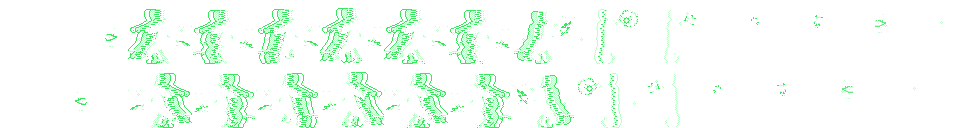
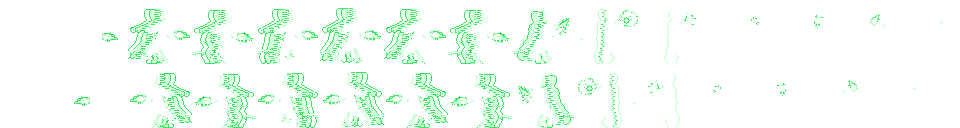
Lightning Cutter v4: electric blade sheaf rooted behind the fingertips so it covers the knife hand (_ebladeAt, eb())
Claude-Session: https://claude.ai/code/session_01Szh5ttRDb89qDV89ViZpPu

diff --git a/tools/astro.py b/tools/astro.py
@@ -659,6 +659,29 @@ NPAT.update({'eblade0': _eblade(18, 1), 'eblade1': _eblade(18, 2, 1.2), 'eblade2
              'ebladeLow': _eblade(16, 8, 0.8, 0.25), 'ebladeLow2': _eblade(16, 9, 0.9, 0.25), 'ebladeUp': _eblade(16, 10, 0.7, -0.85), 'ebladeUp2': _eblade(18, 11, 0.8, -0.95),
              'impaleUp': [r[::-1] for r in _eblade(18, 12, 0.6, -0.8)], 'impaleUp2': [r[::-1] for r in _eblade(20, 13, 0.8, -0.85)],
              'impaleOut': [r[::-1] for r in _eblade(18, 6, 0.6)], 'impaleOut2': [r[::-1] for r in _eblade(20, 7, 0.8)]})
+def _ebladeAt(L, seed, spread, base, back=5):   # Lightning Cutter v4 (Christopher 2026-11-03: the blades cover the hand, not below it): the sheaf rooted `back` px behind the fingertips so it wraps the
+    import random                                  # knife hand and juts past it; returns the rows plus the anchored dx/dy that put the root on the hand anchor (patterns are centred on the anchor)
+    rnd = random.Random(seed); pts = {}
+    for (ln, ang, w) in ((L, 0, 3.4), (round(L * 0.75), -0.3 * spread, 2.4), (round(L * 0.7), 0.32 * spread, 2.4), (round(L * 0.5), -0.6 * spread, 1.8), (round(L * 0.45), 0.65 * spread, 1.8)):
+        for i in range(ln * 2):
+            t = i / 2; f = t / ln; half = w * (1 - f) + 0.5
+            jit = rnd.choice((-0.6, 0, 0.6)) if i % 3 == 0 else 0
+            for j in range(-5, 6):
+                o = j / 2
+                if abs(o) > half: continue
+                a = ang + base; x = round(t * math.cos(a) - (o + jit) * math.sin(a)) - back; y = round(t * math.sin(a) + (o + jit) * math.cos(a))
+                ch = 'W' if abs(o) < 0.3 and f < 0.7 else 'l' if abs(o) < half - 0.6 else 'L'
+                if (x, y) not in pts or ch == 'W': pts[(x, y)] = ch
+    xs = [x for x, _ in pts]; ys = [y for _, y in pts]; x0, y0 = min(xs), min(ys); w_, h_ = max(xs) - x0 + 1, max(ys) - y0 + 1
+    rows = [['.'] * w_ for _ in range(h_)]
+    for (x, y), ch in pts.items(): rows[y - y0][x - x0] = ch
+    for _ in range(5): rows[rnd.randrange(h_)][rnd.randrange(w_)] = 'l'
+    return [''.join(q) for q in rows], (w_ - 1) / 2 + x0, (h_ - 1) / 2 + y0   # dx, dy: offset of the pattern centre from the root
+EB = {}
+for nm, args in {'ebHand0': (15, 21, 0.9, 0.15), 'ebHand1': (15, 22, 1.1, 0.2), 'ebUp': (16, 23, 0.8, -0.9), 'ebUpS': (11, 24, 0.7, -0.9)}.items():
+    NPAT[nm], dx_, dy_ = _ebladeAt(*args); EB[nm] = (round(dx_), round(dy_))
+def eb(nm, alpha=None):   # anchored item: blade sheaf nm rooted on the hand
+    return (nm, 'hand', EB[nm][0], EB[nm][1]) + (({'alpha': alpha},) if alpha else ())
 ELEC_TRAIL = {(255, 255, 255): (0xff, 0xff, 0xff), (0xe3, 0xe3, 0xe3): (0x39, 0xe7, 0x5f)}   # Lightning Cutter: motion streak white inner half, electric green tail
 ELEC_FEET = [[('spark', _foot(SPRINT_LEGS[k])), ('sparkL', [_foot(SPRINT_LEGS[(k + 4) % 8])[0], _foot(SPRINT_LEGS[(k + 4) % 8])[1]])] + ([('bolt8', [_foot(SPRINT_LEGS[k])[0] - 9, 63])] if _foot(SPRINT_LEGS[k])[1] == 63 else []) for k in range(6)]
 ELEC_WAKE = [[('bolt12', [2, 58]), ('spark', [10, 40]), ('sparkL', [3, 30])], [('bolt12b', [1, 60]), ('sparkL', [12, 44]), ('spark', [4, 34])]]
@@ -2062,7 +2085,7 @@ CLIPS = {
                  4: [('crackle4', 'head', -8, 8), ('crackle4b', 'head', 8, 26), ('spark', 'head', -12, 30), ('sparkL', 'head', 12, 0)],
                  5: [('spark', 'head', 9, 12), ('sparkL', 'head', -9, 30), ('staticV', 'head', 6, -8)], 6: [('spark', 'head', -7, 20)]})),
  'lightningCutter': ('Lightning Cutter', 9,
-  'Lightning Cutter (Aquarius ninjutsu, Mental 24, Melee (Reach +6m), Priority, Gap Closer: an instant piercing lightning charge), v3 (Christopher 2026-11-03: play it as a sprinting uppercut to the body with the same fx, the striking arm kept low until the strike is in range; v2 2026-10-30: electric blades envelop the hand while it runs, the strike impales the torso): from the guard the fighter dips and draws the near hand back low as a knife hand, and a sheaf of crackling electric blades bursts out round it; then it breaks into the approved sprint at blinding speed with the bladed hand carried low beside the hip, the blades pointing forward along the floor and spitting sparks, sparks off its feet at every stride, a streak of lightning and four green afterimages trailing behind; in range it plants, dips, and rips the bladed hand up from the hip in an uppercut into the target\'s body, the blades driving up through its torso and punching out of its upper back in a burst of lightning (the target plays lightningImpaled); it holds the blow while the lightning crackles through the target, then rips the hand free and settles back into the guard. The fighter travels 40 px over the clip (the game moves it by that distance).', [
+  'Lightning Cutter (Aquarius ninjutsu, Mental 24, Melee (Reach +6m), Priority, Gap Closer: an instant piercing lightning charge), v4 (Christopher 2026-11-03: the lightning blades cover the hand, not sit below it; v3: play it as a sprinting uppercut to the body with the same fx, the striking arm kept low until the strike is in range; v2 2026-10-30: electric blades envelop the hand while it runs, the strike impales the torso): from the guard the fighter dips and draws the near hand back low as a knife hand, and a sheaf of crackling electric blades bursts out round it; then it breaks into the approved sprint at blinding speed with the bladed hand carried low beside the hip, the blades pointing forward along the floor and spitting sparks, sparks off its feet at every stride, a streak of lightning and four green afterimages trailing behind; in range it plants, dips, and rips the bladed hand up from the hip in an uppercut into the target\'s body, the blades driving up through its torso and punching out of its upper back in a burst of lightning (the target plays lightningImpaled); it holds the blow while the lightning crackles through the target, then rips the hand free and settles back into the guard. The fighter travels 40 px over the clip (the game moves it by that distance).', [
      g(),
      g(an=band(20, -40, fistKind='palm'), af=band(-40, 215), bob=(3, 3, 3), lean=(1, 4), ln='ml-dip-rear', lf='ml-dip-lead')] + [
      g(an=LC_RUN, af=SPRINT_F[k], bob=(SPRINT_DY[k],) * 3, lean=(1, 8), root=(6, 0), ln='sr-' + SPRINT_LEGS[k], lf='sr-' + SPRINT_LEGS[(k + 4) % 8]) for k in range(6)] + [
@@ -2082,10 +2105,10 @@ CLIPS = {
               [(k, ELEC_FEET[k - 2] + ELEC_WAKE[k % 2]) for k in range(2, 8)] + [(8, ELEC_WAKE[0][:2]), (9, [('spark', [4, 40])])]),
        extra={'airborneFrames': [5], 'travel': {'rule': 'Lightning Cutter is a gap closer (Reach +6 m): the fighter ends the clip 40 px further forward (sum of rootMotion); the game moves the fighter by that distance', 'E': 40},
               'targetState': {'rule': 'Lightning Cutter v3: on the active frame (frame 9, the bladed uppercut drives up into the body) the target plays lightningImpaled once (impaled, blades out of its back, convulsing, then the hand rips free and it staggers), then its idle', 'state': 'lightningImpaled', 'loopFrom': None, 'element': 'air'}},
-       anchored={1: [('ebladeS', 'hand', 4, 0), ('crackle3', 'hand', 0, 0)], **{k: [(('ebladeLow', 'ebladeLow2')[k % 2], 'hand', 6, 1), ('spark', 'hand', 2, (-5, 5)[k % 2])] for k in range(2, 8)},
-                 8: [('ebladeUp', 'hand', 4, -5), ('crackle4', 'hand', 0, 0)], 9: [('voltOrb3', 'hand', 0, 0), ('zapRing9', 'hand', 2, -2)],
+       anchored={1: [eb('ebHand0'), ('crackle3', 'hand', -3, 0)], **{k: [eb(('ebHand0', 'ebHand1')[k % 2]), ('spark', 'hand', -3, (-5, 5)[k % 2])] for k in range(2, 8)},
+                 8: [eb('ebUp'), ('crackle4', 'hand', -2, 0)], 9: [('voltOrb3', 'hand', 0, 0), ('zapRing9', 'hand', 2, -2)],
                  10: [('crackle6', 'hand', 0, 0), ('spark', 'hand', -3, -7)], 11: [('crackle4b', 'hand', 0, 0)], 12: [('crackle6b', 'hand', 0, 0), ('sparkL', 'hand', -2, 6)],
-                 13: [('ebladeS', 'hand', 4, 0, {'alpha': {'W': 160, 'l': 150, 'L': 140}}), ('spark', 'hand', 8, 2)], 14: [('spark', 'hand', 2, -3)]})),
+                 13: [eb('ebUpS', {'W': 160, 'l': 150, 'L': 140}), ('spark', 'hand', 6, 2)], 14: [('spark', 'hand', 2, -3)]})),
  'lightningImpaled': ('Lightning Impaled', 0,
   'Lightning Impaled (target state of Lightning Cutter v3, plays once): the bladed uppercut drives up into the fighter\'s body and the electric blades punch up and out through its upper back in a burst of lightning; it doubles over the hand, arms flung out, eyes squeezed, convulsing as lightning crackles through it and arcs off its body; then the hand rips free, the blades vanish, and it staggers back clutching its chest before dropping back into the guard.', [
      g(an=band(20, -30), af=band(10, -25), bob=(1, 0, 0), lean=(2, 8)),
